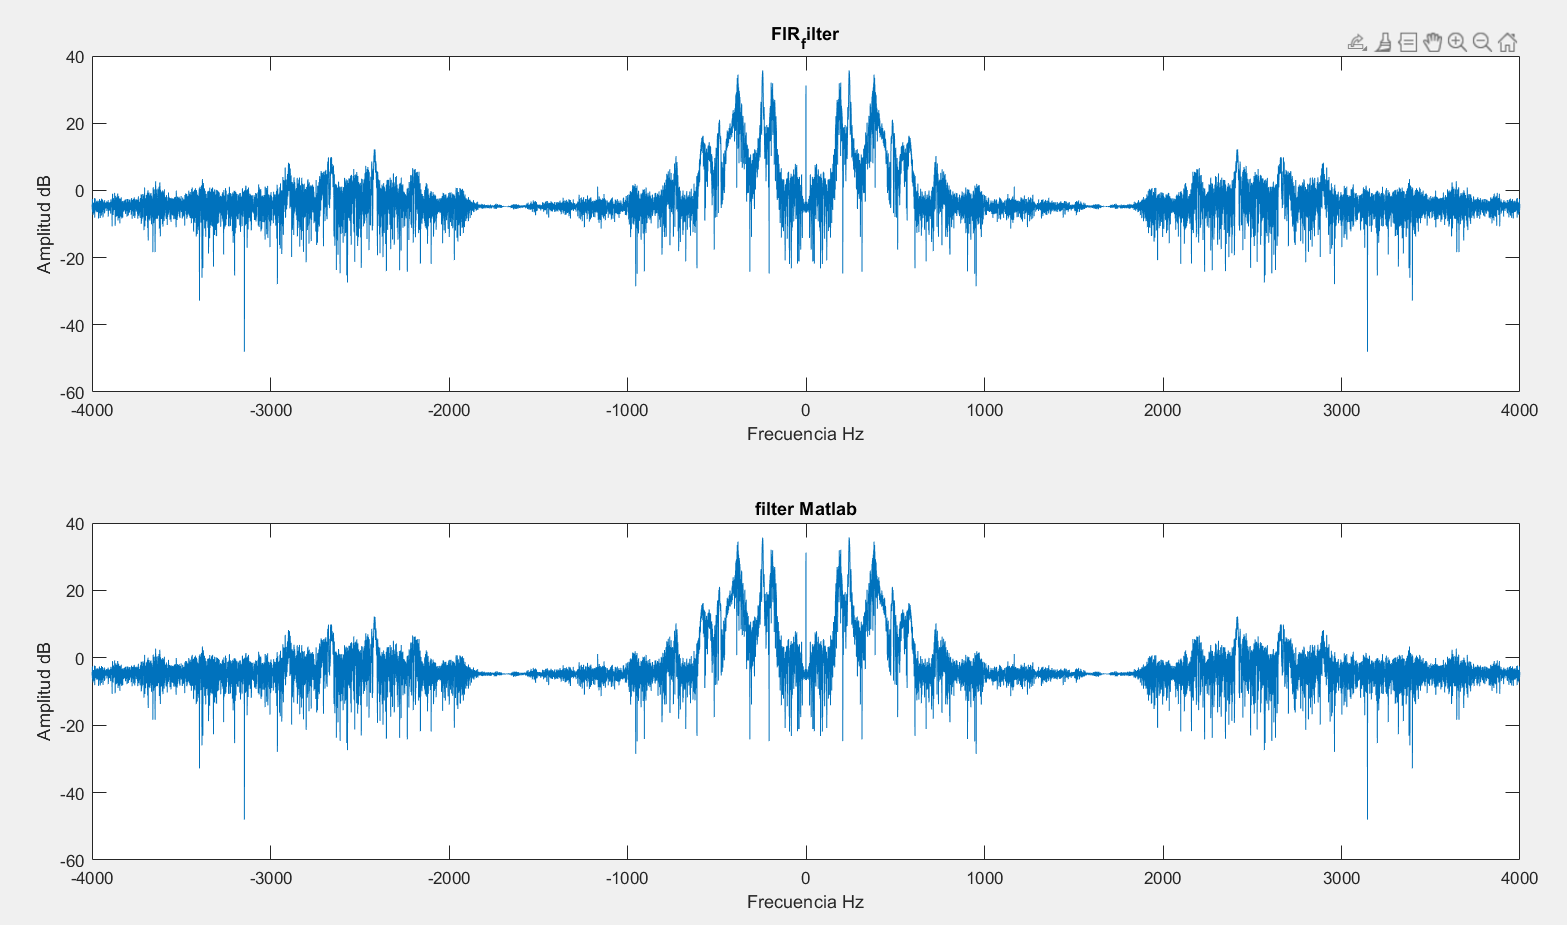
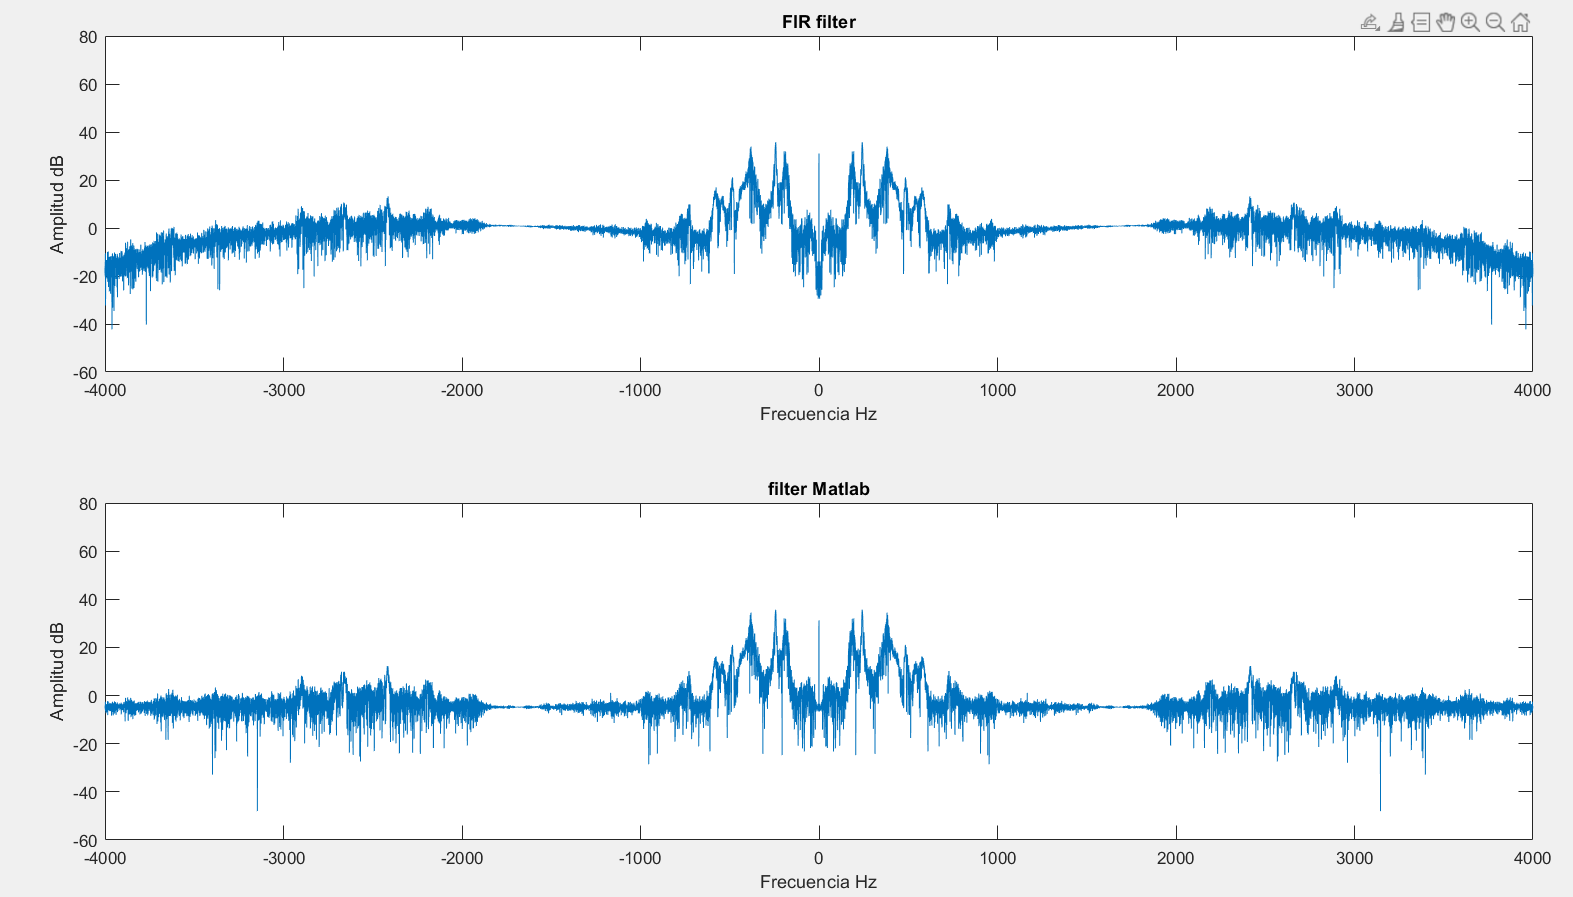
asasas

diff --git a/lab3dsp_G7_Aguilera_Huidobro/LabP1/scripts/Parte1.m b/lab3dsp_G7_Aguilera_Huidobro/LabP1/scripts/Parte1.m
@@ -52,15 +52,17 @@ load('nspeech.mat');
 %plot_fft_mag(nspeech,fs)
 frec = 1685;
 fn = 1685/4000 * pi;
-senal_filtrada = filtro1(nspeech,fn);
+senal_filtrada = FIR_filter(nspeech,fn);
 f_vector= -4000:2*4000/length(nspeech):4000-4000/length(nspeech);
+f_vector2= -4000:2*4000/length(senal_filtrada):4000-4000/length(senal_filtrada);
 subplot 211
 plot(f_vector,20*log10(abs(fftshift(fft(nspeech)))))
 xlabel('Frecuencia Hz')
 ylabel('Amplitud dB')
 title('nspeech')
 subplot 212
-plot(f_vector,20*log10(abs(fftshift(fft(senal_filtrada)))))
+plot(f_vector2,20*log10(abs(fftshift(fft(senal_filtrada)))))
+ylim([-60 80])
 xlabel('Frecuencia Hz')
 ylabel('Amplitud dB')
 title('nspeech pasado por filtor FIR')
@@ -70,17 +72,20 @@ fn = 1685/4000 * pi;
 f_vector= -4000:2*4000/length(nspeech):4000-4000/length(nspeech);
 senal_filtrada2 = filter([1 -2*cos(fn) 1],[1 0 0], nspeech);
 subplot 211
-plot(f_vector,20*log10(abs(fftshift(fft(senal_filtrada)))))
+plot(f_vector2,20*log10(abs(fftshift(fft(senal_filtrada)))))
+ylim([-60 80])
 xlabel('Frecuencia Hz')
 ylabel('Amplitud dB')
-title('FIR_filter')
+title('FIR filter')
 subplot 212
 plot(f_vector,20*log10(abs(fftshift(fft(senal_filtrada2)))))
+ylim([-60 80])
 xlabel('Frecuencia Hz')
 ylabel('Amplitud dB')
 title('filter Matlab')
 %% 4
 load('pcm.mat')
+plot_fft_mag(pcm,fs)
 wn = 3146/4000 * pi;
 aCoeff = [-2*0.99*cos(wn) 0.99^2];
 yBuff = [0, 0];
@@ -89,6 +94,36 @@ for i=1:length(pcm)
     yBuff = IIR_filter(yBuff, aCoeff, pcm(i));
     filtered_pcm(i) = yBuff(1);
 end
+
+
+f_vector= -4000:2*4000/length(pcm):4000-4000/length(pcm);
+f_vector2= -4000:2*4000/length(filtered_pcm):4000-4000/length(filtered_pcm);
+subplot 211
+plot(f_vector,abs(fftshift(fft(pcm))))
+grid on
+xlabel('Frecuencia Hz')
+ylabel('Amplitud')
+title('pcm')
+subplot 212
+plot(f_vector2,abs(fftshift(fft(filtered_pcm))))
+grid on
+xlabel('Frecuencia Hz')
+ylabel('Amplitud')
+title('pcm pasado por filtor IIR')
+
+figure 
+subplot 211
+plot(pcm)
+grid on
+xlabel('Muestras')
+ylabel('Amplitud')
+title('pcm')
+subplot 212
+plot(filtered_pcm)
+grid on
+xlabel('Muestras')
+ylabel('Amplitud')
+title('pcm pasado por filtor IIR')
 %% Funciones
 
 function y = filtro1(x, theta)
@@ -121,19 +156,10 @@ end
 end
 
 function y = FIR_filter(x,theta)
-delta=[1, zeros([1,2])];
-y=zeros(1,length(x));
-h=filtro1(delta,theta);
-for k=1:length(x)
-    for i=1:length(x)
-        if i-k > 0
-            if i-k < 4
-                y(k)=y(k)+x(k)*h(i-k);
-            end
-        end
-    end
-end
-
+b = [1 -2*cos(theta) 1]; 
+a = [1 0 0];
+h = impz(b,a); % respuesta impulso del filtro digital con coeficientes b, a
+y = conv(h,x);
 end
 function y = IIR_filter(yBuff, aCoeff, x)
     y_new = x - aCoeff(1)*yBuff(1) - aCoeff(2)*yBuff(2);

diff --git a/lab3dsp_G7_Aguilera_Huidobro/LabP1/scripts/Parte2.m b/lab3dsp_G7_Aguilera_Huidobro/LabP1/scripts/Parte2.m
@@ -1,0 +1,33 @@
+%% diseño de FIR usando ventanas 1)
+w = 2*pi/3;
+%N = 21;
+%y = ventana1(w,N);
+[y1,w1] = DTFT(ventana1(w,21),512);
+[y2,w2] = DTFT(ventana1(w,101),512);
+[y3,w3] = DTFT(ventana1(w,1001),512);
+
+subplot 211
+plot(w1,abs(y1));
+subplot 212
+plot(w1,angle(y1));
+
+figure
+subplot 211
+plot(w2,abs(y2));
+subplot 212
+plot(w2,angle(y2));
+
+figure
+subplot 211
+plot(w3,abs(y3) );
+subplot 212
+plot(w3,angle(y3));
+
+%% funcions
+function y = ventana1(w,N)
+    x = zeros([1,N]);
+    for n = 1:N
+        x(n) = w/pi*(n - (N-1)/2) ;
+    end
+    y = w/pi*sinc(x);
+end
